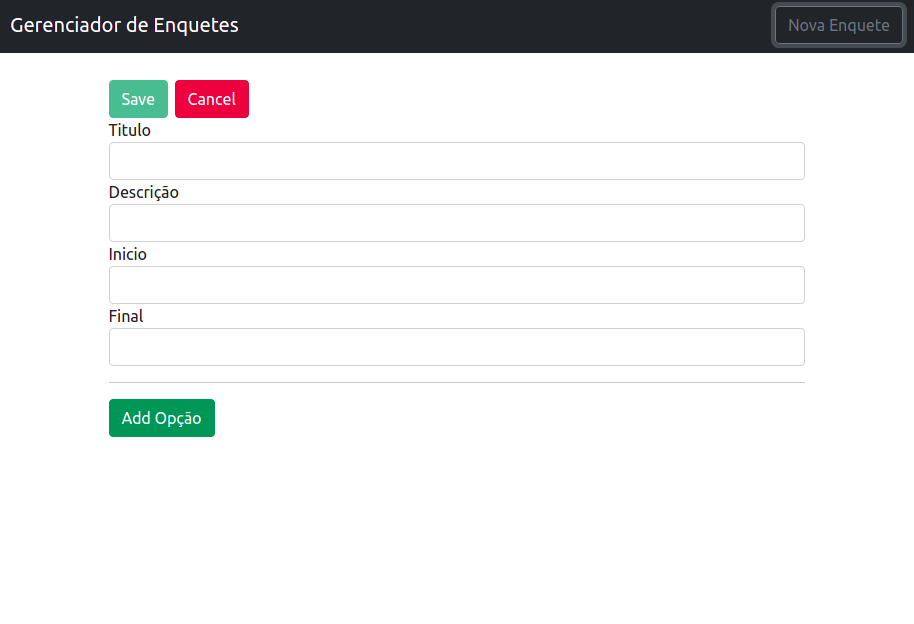
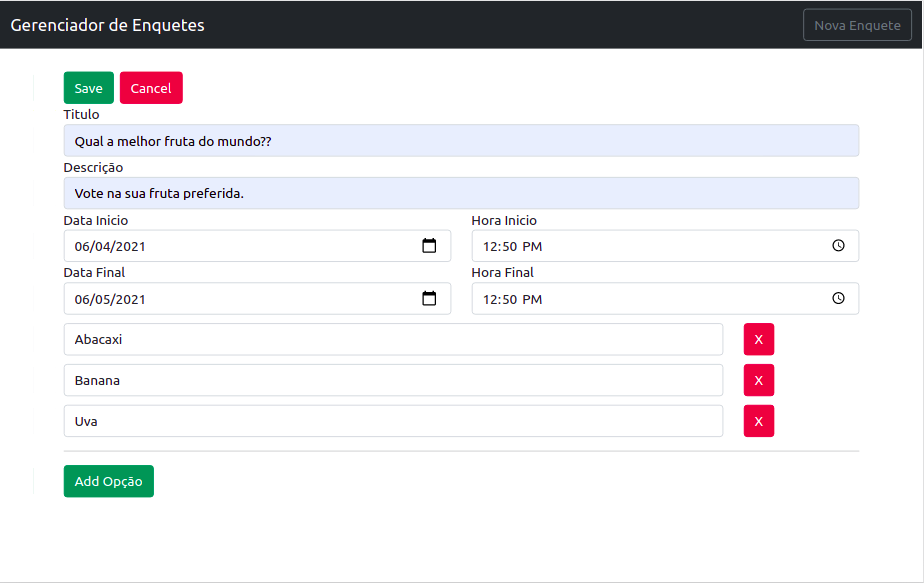
Add: Remove poll, Date and Time picker

diff --git a/angular-app/src/app/enquete/enquete-details/enquete-details.component.ts b/angular-app/src/app/enquete/enquete-details/enquete-details.component.ts
@@ -1,5 +1,5 @@
 import { Component, OnInit, OnDestroy } from '@angular/core';
-import { ActivatedRoute } from '@angular/router';
+import { ActivatedRoute, Router } from '@angular/router';
 import { FormArray, FormControl, FormGroup, Validators } from '@angular/forms';
  
 import { Subscription } from 'rxjs';
@@ -23,7 +23,9 @@ export class EnqueteDetailsComponent implements OnInit, OnDestroy {
 
   subscription: Subscription;
 
-  constructor(private route: ActivatedRoute, private enqueteService: EnqueteService) { }
+  constructor(private route: ActivatedRoute, 
+			  private enqueteService: EnqueteService,
+			  private router: Router) { }
 
   ngOnInit(): void {
 	this.id = this.route.snapshot.params['id'];
@@ -40,15 +42,15 @@ export class EnqueteDetailsComponent implements OnInit, OnDestroy {
 	this.enqueteService.getEnquete(this.id).subscribe(enquete => {
 		this.enquete = enquete;
 		this.inicio = new Date(
-				parseInt(enquete.inicio.split("-")[2]),
-				parseInt(enquete.inicio.split("-")[1]) - 1,
 				parseInt(enquete.inicio.split("-")[0]),
+				parseInt(enquete.inicio.split("-")[1]) - 1,
+				parseInt(enquete.inicio.split("-")[2]),
 				parseInt(enquete.inicio.split("-")[3]),
 				parseInt(enquete.inicio.split("-")[4]));
 		this.final = new Date(
-				parseInt(enquete.final.split("-")[2]),
-				parseInt(enquete.final.split("-")[1]) - 1,
 				parseInt(enquete.final.split("-")[0]),
+				parseInt(enquete.final.split("-")[1]) - 1,
+				parseInt(enquete.final.split("-")[2]),
 				parseInt(enquete.final.split("-")[3]),
 				parseInt(enquete.final.split("-")[4]));
 
@@ -59,7 +61,6 @@ export class EnqueteDetailsComponent implements OnInit, OnDestroy {
 		} else {
 			this.ativa = false;
 		}
-		console.log(this.ativa);
 	});
   }
 
@@ -70,6 +71,11 @@ export class EnqueteDetailsComponent implements OnInit, OnDestroy {
   onAdicionarOpcao(opcaoForm) {
 	this.enqueteService.adicionarOpcao(this.id, opcaoForm.value.titulo);
 	opcaoForm.reset();
+  }
+
+  onRemoverEnquete() {
+	this.enqueteService.removerEnquete(this.id);
+	this.router.navigate(['/enquetes']);
   }
 
   ngOnDestroy(): void {

diff --git a/angular-app/src/app/enquete/enquete-new/enquete-new.component.ts b/angular-app/src/app/enquete/enquete-new/enquete-new.component.ts
@@ -27,13 +27,15 @@ export class EnqueteNewComponent implements OnInit {
   }
 
   onSubmit() {
-    // const newRecipe = new Recipe(
-    //   this.recipeForm.value['name'],
-    //   this.recipeForm.value['description'],
-    //   this.recipeForm.value['imagePath'],
-    //   this.recipeForm.value['ingredients']);
-      //this.recipeService.addRecipe(this.recipeForm.value);
-      //this.router.navigate(['recipes']);
+
+	  this.enqueteForm.value.inicio = this.enqueteForm.value['inicio-date']
+	  									+ "-"
+										+ this.enqueteForm.value['inicio-time'].replace(":", "-");
+	
+	  this.enqueteForm.value.final = this.enqueteForm.value['final-date']
+	  									+ "-"
+										+ this.enqueteForm.value['final-time'].replace(":", "-");
+
 	  this.enqueteService.addEnquete(this.enqueteForm.value);
 	  this.router.navigate(['enquetes']);
   }
@@ -56,8 +58,10 @@ export class EnqueteNewComponent implements OnInit {
     this.enqueteForm = new FormGroup({
       'titulo': new FormControl(enqueteTitulo, Validators.required),
       'descricao': new FormControl(enqueteDescricao, Validators.required),
-      'inicio': new FormControl(enqueteInicio, Validators.required),
-      'final': new FormControl(enqueteFinal, Validators.required),
+      'inicio-date': new FormControl(enqueteInicio, Validators.required),
+      'inicio-time': new FormControl(enqueteInicio, Validators.required),
+      'final-date': new FormControl(enqueteFinal, Validators.required),
+      'final-time': new FormControl(enqueteFinal, Validators.required),
       'opcoes': enqueteOpcoes
     });
   }

diff --git a/angular-app/src/app/enquete/enquete-new/enquete-new.component.html b/angular-app/src/app/enquete/enquete-new/enquete-new.component.html
@@ -39,27 +39,43 @@
       </div>
 
       <div class="row">
-        <div class="col-xs-12">
+        <div class="col-md-6">
           <div class="form-group">
-            <label for="inicio">Inicio</label>
+            <label for="inicio">Data Inicio</label>
             <input
-            type="text"
-            id="inicio"
+            type="date"
             class="form-control"
-            formControlName="inicio">
+            formControlName="inicio-date">
+          </div>
+        </div>
+		<div class="col-md-6">
+          <div class="form-group">
+            <label for="inicio">Hora Inicio</label>
+            <input
+            type="time"
+            class="form-control"
+            formControlName="inicio-time">
           </div>
         </div>
       </div>
 
 	  <div class="row">
-        <div class="col-xs-12">
+        <div class="col-md-6">
           <div class="form-group">
-            <label for="final">Final</label>
+            <label for="final">Data Final</label>
             <input
-            type="text"
-            id="final"
+            type="date"
             class="form-control"
-            formControlName="final">
+            formControlName="final-date">
+		  </div>
+        </div>
+		<div class="col-md-6">	
+          <div class="form-group">
+            <label for="final">Hora Final</label>
+			<input
+            type="time"
+            class="form-control"
+            formControlName="final-time">
           </div>
         </div>
       </div>

diff --git a/angular-app/src/app/enquete/enquete-details/enquete-details.component.html b/angular-app/src/app/enquete/enquete-details/enquete-details.component.html
@@ -19,6 +19,10 @@
   </div>
 </div>
 </div>
+<div class="d-grid gap-2 d-md-block">
+  <button class="btn btn-primary" type="button" style="margin-right: 5pt;">Editar</button>
+  <button class="btn btn-danger" type="button" (click)="onRemoverEnquete()">Remover</button>
+</div>
 </div>
 
 <div class="container" style="margin-top:20pt">

diff --git a/angular-app/src/app/enquete/enquete.service.ts b/angular-app/src/app/enquete/enquete.service.ts
@@ -59,4 +59,10 @@ export class EnqueteService {
 			this.votoAdicionado.next();
 		});
 	}
+
+	removerEnquete(enquete_id: number) {
+		this.http.delete(this.baseUrl + enquete_id).subscribe(response => {
+			console.log(response);
+		});
+	}
 }

diff --git a/angular-app/src/app/enquete/enquete-list/enquete-list.component.ts b/angular-app/src/app/enquete/enquete-list/enquete-list.component.ts
@@ -22,7 +22,6 @@ export class EnqueteListComponent implements OnInit {
   }
 
   onEnqueteSelect(id: number) {
-	console.log(id);
 	this.router.navigate(['/enquetes', id]);
   }
 

diff --git a/README.md b/README.md
@@ -4,6 +4,69 @@
 
 Api implementada em PHP/Laravel usando JSON e o padrão REST, com banco de dados em MySQl.
 
+### Como Instalar
+
+* Clone o repositório:
+
+```
+git clone https://github.com/IzaRam/poll-manager.git
+```
+
+* Na pasta raiz do projeto da API, execute o seguinte comando para instalar as dependências necessárias:
+
+```
+composer install
+```
+
+* Crie o arquivo de configuração de variáveis de ambiente:
+
+```
+cp .env.example .env
+```
+
+Configure as variáveis de ambiente e a conexão com o bando de dados no arquivo .env:
+
+```
+DB_CONNECTION=mysql
+DB_HOST="HOST_NAME"
+DB_PORT="PORT, DEFAULT=3306"
+DB_DATABASE="DATABASE_NAME"
+DB_USERNAME="YOUR_MYSQL_USERNAME"
+DB_PASSWORD="YOUR_MEYSQL_PASSWORD"
+```
+
+* Execute o seguinte comando para gerar as tabelas no banco de dados:
+
+```
+php artisan migrate
+```
+
+* Execute para gerar uma nova key para a aplicação:
+
+```
+php artisan key:generate
+```
+
+* Execute o seguinte comando para iniciar o servidor:
+
+```
+php artisan serve
+```
+
+* Acesse no navegador: http://localhost:8000 ou a url que você tiver configurado.
+
+
+### Instalar usando o Docker:
+
+A API possuí um arquivo docker-compose.yml configurado, para instalar usando o docker basta executar o seguinte comando:
+
+```
+docker-compose up -d
+```
+
+Em seguida pode ser realizadas as mesmas configurações das intruções anteriores tanto no container do app, quanto no do banco de dados.
+
+
 ### Endpoints da API
 
 ```
@@ -59,14 +122,41 @@ POST /enquetes/opcoes/votar/{id}
 
 ## Front-end
 
-SPA implementado em Angular
+SPA implementado em Angular.
+
+### Como Instalar
+
+* Na pasta raiz do projeto do App, execute o seguinte comando para instalar as dependências necessárias:
+
+```
+npm install
+```
+
+* Execute o seguinte comando para iniciar o servidor da aplicação:
+
+```
+npm start
+```
+
+* Acesse no navegador a url: http://localhost:4200
+
+
+### Instalar usando o Docker:
+
+O app possuí um arquivo docker-compose.yml configurado, para instalar usando o docker basta executar o seguinte comando:
+
+```
+docker-compose up -d
+```
+
+Todas as configurações necessárias já estão feitas no docker-compose.yml, então basta acessar a aplicação no navegador na url:  http://localhost:4200
+
 
 ### App Overview
 
 ![home1](images/home1.png)
 ![home2](images/home2.png)
 ![adicionar1](images/adicionar.png)
-![adicionar2](images/adicionar2.png)
 ![enquete1](images/enquete1.png)
 ![enquete2](images/enquete2.png)
 
